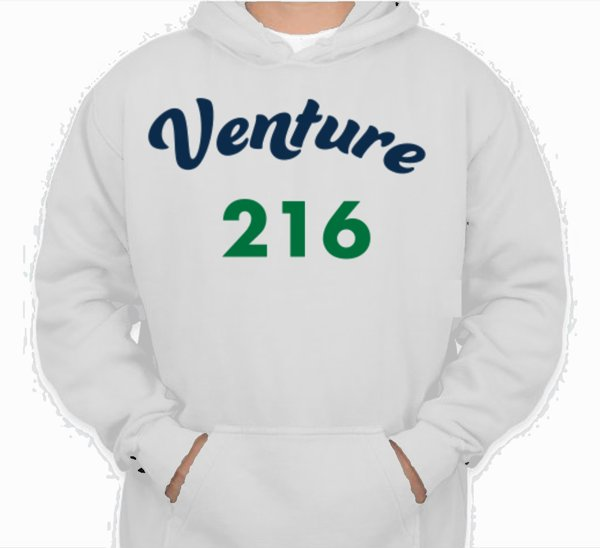
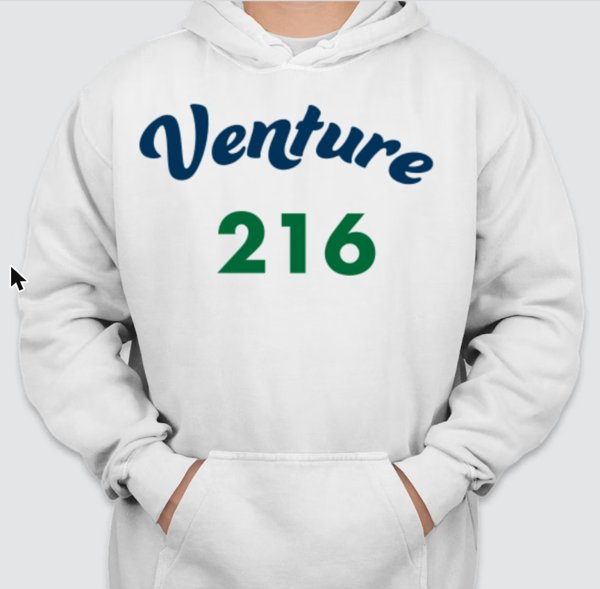
Merch page: real CustomInk mockups and order links for new VPG gear
Hoodie and Nike tees now link to their saved CustomInk designs; adds the
white Nike Vapor polo and Vineyard Vines dress shirt; drops the blue tee.

Claude-Session: https://claude.ai/code/session_01KohrAfEw9q7v2HPQFKJ9wo

diff --git a/vpgteamapp 3/config/merchItems.js b/vpgteamapp 3/config/merchItems.js
@@ -26,23 +26,35 @@ const MERCH_ITEMS = [
     product: "Comfort Colors Hooded Sweatshirt",
     color: "White",
     imageUrl: "/images/merch/venture-216-hoodie-white.jpg",
+    shareUrl: "https://www.customink.com/designs/VPG%20Venture%20216%20Hoodie/mnr0-00d4-chye/share",
   },
   {
     name: "Venture 216 Nike Tee",
     product: "Nike Team rLegend Recycled Performance Shirt",
     color: "Carbon Heather (Gray)",
     imageUrl: "/images/merch/venture-216-tee-gray.jpg",
+    shareUrl: "https://www.customink.com/designs/VPG%20Venture%20216%20Nike%20Tee/mnr0-00d4-crmq/share",
   },
   {
     name: "Venture 216 Nike Tee",
     product: "Nike Team rLegend Recycled Performance Shirt",
     color: "White",
     imageUrl: "/images/merch/venture-216-tee-white.jpg",
+    shareUrl: "https://www.customink.com/designs/VPG%20Venture%20216%20Nike%20Tee/mnr0-00d4-crmq/share",
   },
   {
-    name: "Venture 216 Nike Tee",
-    product: "Nike Team rLegend Recycled Performance Shirt",
-    color: "Blue",
+    name: "VPG Nike Vapor Polo",
+    product: "Nike Dri-FIT Vapor Performance Polo - Embroidered",
+    color: "White",
+    imageUrl: "/images/merch/vpg-nike-vapor-polo-white.jpg",
+    shareUrl: "https://www.customink.com/designs/VPG%20Nike%20Vapor%20Polo%20White/mnr0-00d4-crsb/share",
+  },
+  {
+    name: "VPG Vineyard Vines Dress Shirt",
+    product: "Vineyard Vines On-The-Go Gingham Stretch Performance Dress Shirt",
+    color: "Maritime Blue",
+    imageUrl: "/images/merch/vpg-vineyard-vines-dress-shirt.jpg",
+    shareUrl: "https://www.customink.com/designs/VPG%20Vineyard%20Vines%20Dress/mnr0-00d4-crtb/share",
   },
   {
     name: "VPG Backpack",
